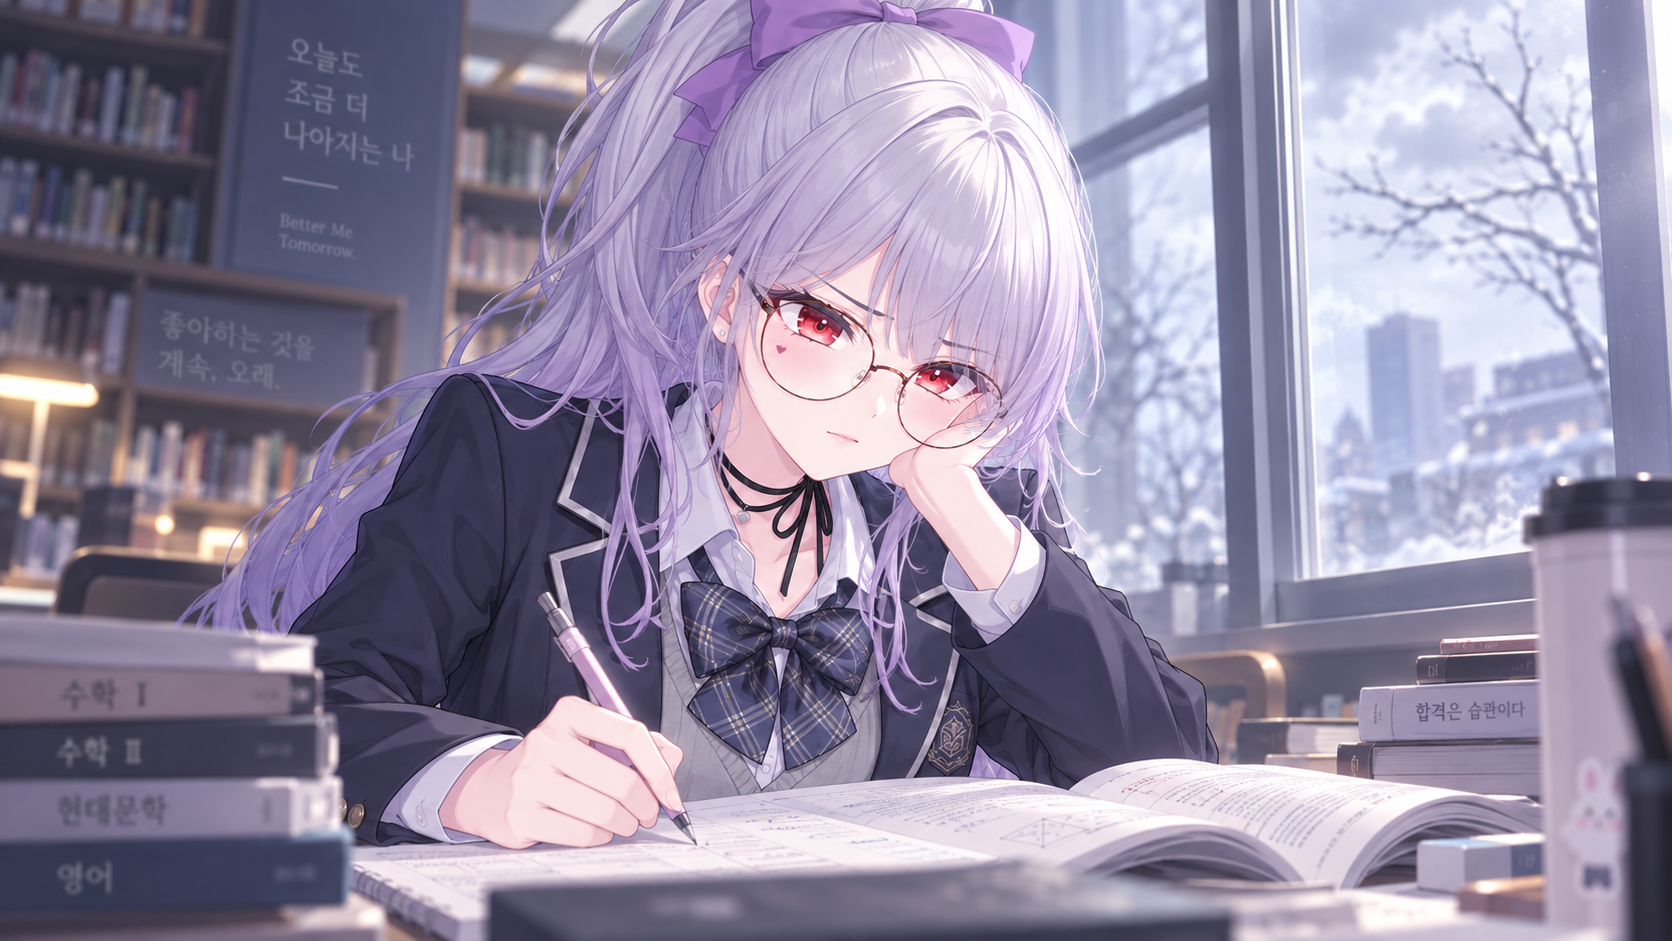
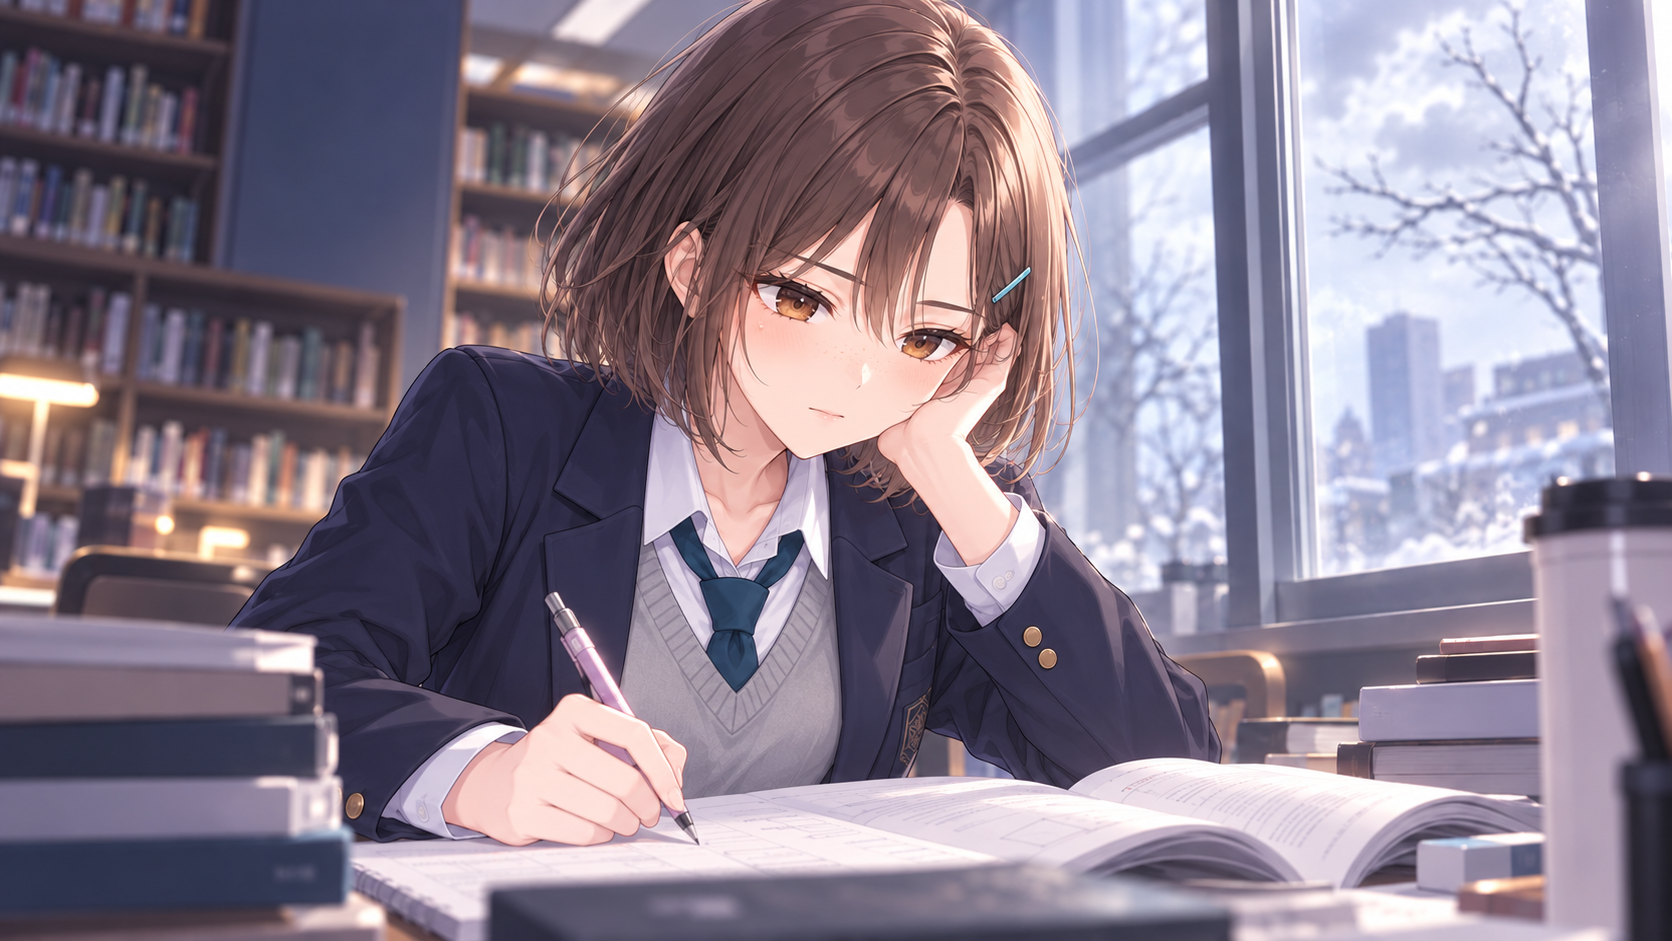
CH07 CG 원본 구도와 자세 반영

diff --git a/docs/illustration-replacement-prompts.md b/docs/illustration-replacement-prompts.md
@@ -237,7 +237,7 @@ CG는 공통 CG 블록과 파일별 장면 프롬프트를 이어 붙인다. 무
 | [cg-04.png](../assets/cg/cg-04.png) · CH04 장마와 우산 | 비가 내리는 하굣길, 남자주인공과 온이유가 하나의 투명 우산을 함께 쓰며 어깨가 가까이 닿은 채 나란히 걷는다. 두 사람의 몸과 어깨는 같은 보행 방향을 향하고 나란히 평행하게 둔다. 온이유는 몸을 돌리지 않고 고개와 시선만 남자주인공 쪽으로 살짝 올린다. 남자주인공은 뒤쪽 모습으로, 얼굴이 드러나지 않게 표현한다. 젖은 보도와 가로등에 빗물이 반사된다. |
 | [cg-05.png](../assets/cg/cg-05.png) · CH05 체육대회 | 원본의 구도와 자세를 유지한다. 화면 왼쪽 그늘진 스탠드에 온이유가 무릎을 세우고 웅크리듯 앉아, 무릎 위에 비스듬히 기댄 스케치북 윗부분에 한 손을 걸친다. 상체와 고개를 살짝 숙이고 시선은 화면 쪽으로 둔다. 오른쪽에는 햇빛이 비치는 운동장과 흐릿한 이어달리기·응원 인파를 넓게 배치한다. 새 캐릭터 기준 외형과 체육복을 적용하고, 스탠드의 글자·로고는 넣지 않는다. |
 | [cg-06.png](../assets/cg/cg-06.png) · CH06 가을 소풍 | 원본의 구도와 자세를 유지한다. 화면 왼쪽 전경 벤치에 온이유가 옆으로 앉아 한쪽 무릎을 세우고, 무릎 위에 비스듬히 놓인 스케치북에 연필로 단풍을 그린다. 상체를 살짝 앞으로 기울이고 시선은 그림에 둔다. 가방은 인물 왼쪽 벤치에 두며, 오른쪽 절반에는 낙엽 덮인 산책길과 난간이 붉고 노란 단풍나무 사이로 멀어지게 배치한다. 새 캐릭터 기준 외형과 교복을 적용하고 글자·로고는 넣지 않는다. |
-| [cg-07.png](../assets/cg/cg-07.png) · CH07 기말고사 | 겨울 도서관의 긴 책상, 온이유가 참고서와 노트를 펼쳐두고 공부하다 잠깐 펜을 멈춘다. 창밖의 차가운 빛과 책상 위 스탠드의 따뜻한 빛을 함께 표현한다. |
+| [cg-07.png](../assets/cg/cg-07.png) · CH07 기말고사 | 원본의 구도와 자세를 유지한다. 긴 책상 앞 중앙 왼쪽에 앉은 온이유가 몸을 살짝 숙이고, 책상에 댄 한쪽 팔의 손으로 뺨을 받친 채 다른 손으로 펼친 문제집에 연필을 움직인다. 왼쪽 아래에는 쌓인 책, 오른쪽 아래에는 펼친 큰 교재를 둔다. 왼쪽 배경은 흐린 도서관 서가와 따뜻한 스탠드 조명, 오른쪽은 눈 덮인 나뭇가지가 보이는 큰 창으로 구성한다. 새 캐릭터 외형과 겨울 교복을 적용하고 안경·읽을 수 있는 글자·로고는 넣지 않는다. |
 | [cg-08.png](../assets/cg/cg-08.png) · CH08 첫눈 | 학교 앞 겨울 저녁, 코트와 목도리를 착용한 온이유가 처음 내리는 눈을 올려다보며 조용히 웃는다. 가로등과 먼 건물 조명이 눈발에 부드럽게 번진다. |
 | [cg-09.png](../assets/cg/cg-09.png) · 1학년→2학년 전환 | 새 학년 첫날의 벚꽃 핀 교문, 온이유가 학교 안쪽으로 걸어가다 어깨 너머로 한 번 돌아본다. 넓은 학교와 오가는 학생들을 배경에 두고 다음 계절로 이어지는 전환 장면으로 구성한다. |
 | [cg-10.png](../assets/cg/cg-10.png) · CH09 새로운 반 | 늦은 오후 학교 복도나 교정 길, 새 반에서 적응을 시작한 온이유가 노을빛을 받으며 잠시 뒤돌아본다. 익숙해지는 중인 표정과 새 친구들의 흐린 실루엣으로 변화의 기분을 전한다. |
@@ -277,4 +277,4 @@ CG는 공통 CG 블록과 파일별 장면 프롬프트를 이어 붙인다. 무
 - 이미지 모델이 만든 문자·로고·워터마크는 제거하고, 필요한 문구는 별도로 편집한다.
 - 인물 외형 참조에는 승인된 공통 캐릭터 기준 이미지만 사용한다. 사용자가 특정 의상 참고 이미지를 제공한 경우에는 지정된 의상 형태만 참고하고 얼굴·머리·포즈·배경은 복사하지 않는다. 결과가 새 공통 캐릭터 기준과 다르면 해당 파일을 다시 생성한다.
 
-이 문서는 교체 대상의 프롬프트와 파일 대응표다. S·W·G·A·C1·P1·C13·P13·C16·P16·C24·P24·GR 스탠딩 세트와 타이틀 표지, cg-01~cg-06의 생성 및 파일 교체를 완료했으며, 나머지 CG는 한 장씩 진행한다.
+이 문서는 교체 대상의 프롬프트와 파일 대응표다. S·W·G·A·C1·P1·C13·P13·C16·P16·C24·P24·GR 스탠딩 세트와 타이틀 표지, cg-01~cg-07의 생성 및 파일 교체를 완료했으며, 나머지 CG는 한 장씩 진행한다.
